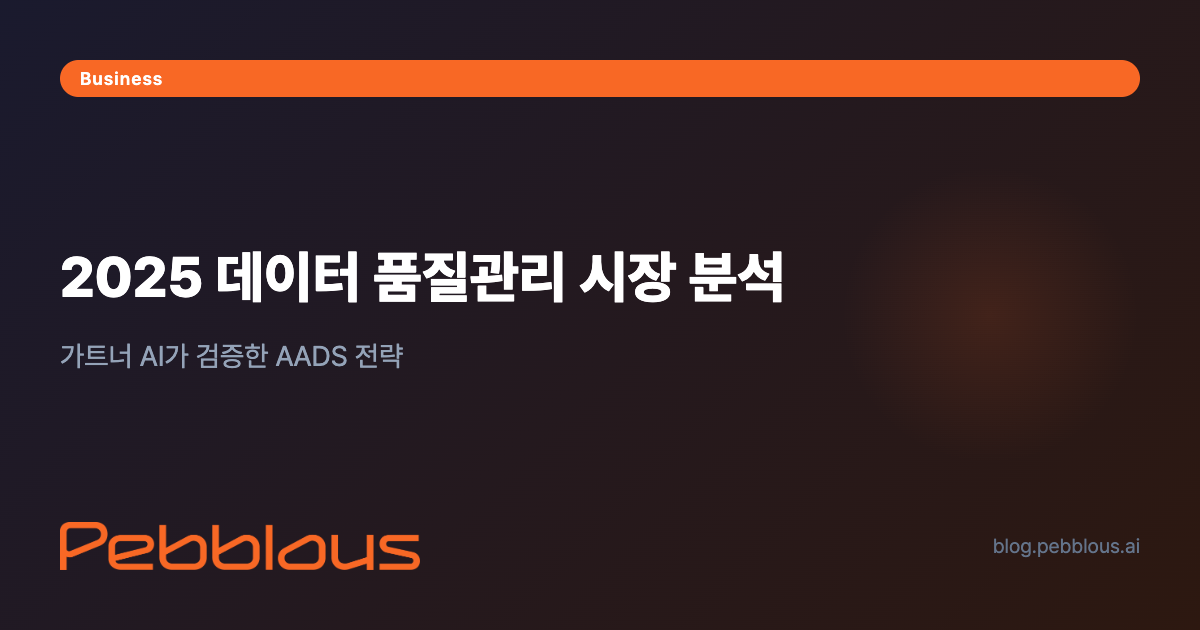
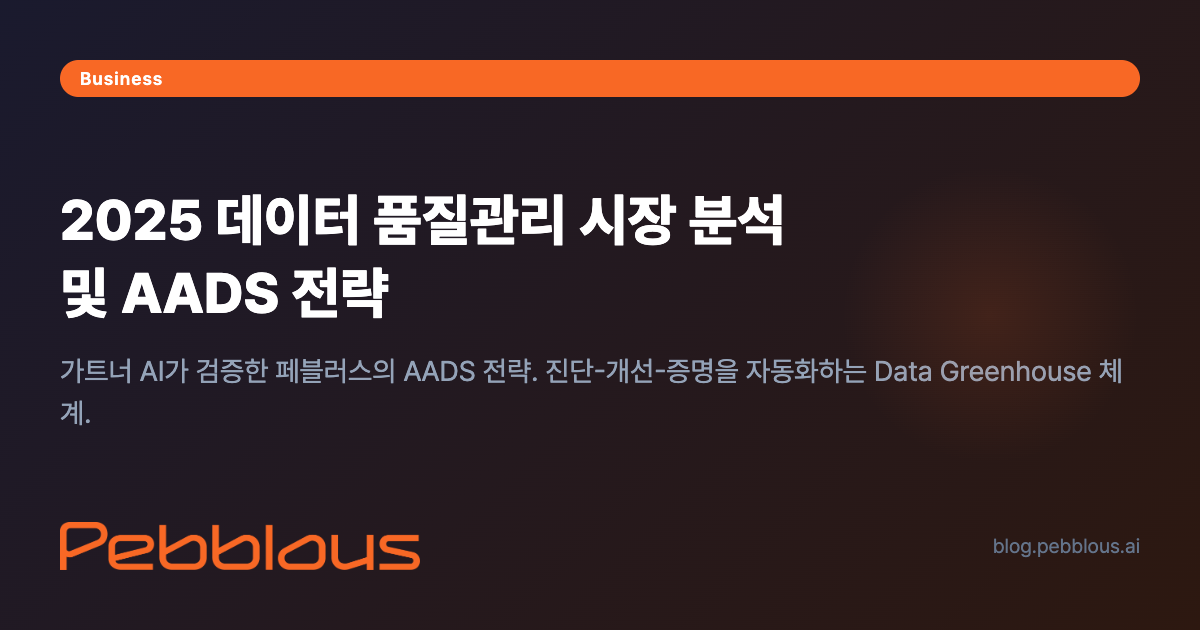
Add --from-html option to OG image generator
- Extract title from og:title or <title> tag
- Extract subtitle from og:description meta tag
- Auto-detect category from articles.json
- Skip generation if image exists (use --force to override)
- Clean up title: remove site name suffixes

🤖 Generated with [Claude Code](https://claude.com/claude-code)

Changed region(s): [[0.0308, 0.3016, 0.6783, 0.5127], [0.0308, 0.5429, 0.9558, 0.6333], [0.0308, 0.6333, 0.0925, 0.6635]]

diff --git a/tools/generate-og-image.js b/tools/generate-og-image.js
@@ -6,9 +6,12 @@
  *   node tools/generate-og-image.js "제목" "부제목" output.png
  *   node tools/generate-og-image.js "제목" output.png              # 부제목 없이
  *   node tools/generate-og-image.js --category business "제목" output.png
+ *   node tools/generate-og-image.js --from-html path/to/post.html  # HTML에서 자동 추출
  *
  * Options:
- *   --category  tech|business|story (default: tech)
+ *   --category   tech|business|story (default: tech)
+ *   --from-html  HTML 파일에서 제목/카테고리 자동 추출
+ *   --force      이미지가 이미 존재해도 재생성
  */
 
 const puppeteer = require('puppeteer');
@@ -267,9 +270,101 @@ async function generateOGImage(title, subtitle, outputPath, category, projectRoo
     }
 }
 
+// Extract info from HTML file
+function extractFromHTML(htmlPath, projectRoot) {
+    const htmlContent = fs.readFileSync(htmlPath, 'utf-8');
+
+    // Extract og:title or <title>
+    let title = '';
+    const ogTitleMatch = htmlContent.match(/<meta\s+property="og:title"\s+content="([^"]+)"/i);
+    if (ogTitleMatch) {
+        title = ogTitleMatch[1];
+    } else {
+        const titleMatch = htmlContent.match(/<title>([^<]+)<\/title>/i);
+        if (titleMatch) {
+            title = titleMatch[1];
+        }
+    }
+    // Clean up title: remove site name suffixes
+    title = title.replace(/\s*[|\-–—]\s*(Pebblous|Data Greenhouse|페블러스).*$/i, '').trim();
+
+    // Extract og:description for subtitle
+    let subtitle = '';
+    const ogDescMatch = htmlContent.match(/<meta\s+property="og:description"\s+content="([^"]+)"/i);
+    if (ogDescMatch) {
+        subtitle = ogDescMatch[1];
+        // Truncate if too long
+        if (subtitle.length > 80) {
+            subtitle = subtitle.substring(0, 77) + '...';
+        }
+    }
+
+    // Determine category from articles.json or path
+    let category = 'tech';
+    const articlesPath = path.join(projectRoot, 'articles.json');
+    if (fs.existsSync(articlesPath)) {
+        const data = JSON.parse(fs.readFileSync(articlesPath, 'utf-8'));
+        const relativePath = path.relative(projectRoot, htmlPath);
+
+        // Search in articles array
+        const found = data.articles?.find(a => a.path === relativePath);
+        if (found && found.category) {
+            category = found.category;
+        }
+    }
+
+    // Fallback: detect from path
+    if (category === 'tech') {
+        if (htmlPath.includes('/report/') || htmlPath.includes('market') || htmlPath.includes('business')) {
+            category = 'business';
+        } else if (htmlPath.includes('/story/') || htmlPath.includes('review')) {
+            category = 'story';
+        }
+    }
+
+    // Determine output path: same folder as HTML, in image/ subfolder
+    const htmlDir = path.dirname(htmlPath);
+    const htmlName = path.basename(htmlPath, '.html');
+    const outputPath = path.join(htmlDir, 'image', `${htmlName}.png`);
+
+    return { title, subtitle, category, output: outputPath };
+}
+
 // Main
 const args = process.argv.slice(2);
-if (args.length < 2) {
+
+// Check for --from-html mode
+const fromHtmlIndex = args.indexOf('--from-html');
+const forceIndex = args.indexOf('--force');
+const force = forceIndex !== -1;
+
+if (fromHtmlIndex !== -1 && args[fromHtmlIndex + 1]) {
+    // --from-html mode
+    const htmlPath = path.resolve(args[fromHtmlIndex + 1]);
+    const projectRoot = path.resolve(__dirname, '..');
+
+    if (!fs.existsSync(htmlPath)) {
+        console.error(`❌ HTML file not found: ${htmlPath}`);
+        process.exit(1);
+    }
+
+    const { title, subtitle, category, output } = extractFromHTML(htmlPath, projectRoot);
+
+    if (!title) {
+        console.error('❌ Could not extract title from HTML');
+        process.exit(1);
+    }
+
+    // Check if image already exists
+    if (fs.existsSync(output) && !force) {
+        console.log(`⏭  OG image already exists: ${output}`);
+        console.log('   Use --force to regenerate');
+        process.exit(0);
+    }
+
+    generateOGImage(title, subtitle, output, category, projectRoot).catch(console.error);
+
+} else if (args.length < 2) {
     console.log(`
 OG Image Generator for Pebblous Blog
 
@@ -277,19 +372,27 @@ Usage:
   node tools/generate-og-image.js "제목" output.png
   node tools/generate-og-image.js "제목" "부제목" output.png
   node tools/generate-og-image.js --category business "제목" output.png
+  node tools/generate-og-image.js --from-html path/to/post.html
+  node tools/generate-og-image.js --from-html path/to/post.html --force
 
 Categories:
   tech     - Blue theme (default)
   business - Orange theme
   story    - Teal theme
 
+Options:
+  --from-html  Extract title/category from HTML file automatically
+  --force      Regenerate even if image already exists
+
 Examples:
   node tools/generate-og-image.js "Data Greenhouse 전략" project/DataGreenhouse/image/og.png
   node tools/generate-og-image.js --category business "시장 분석" "가트너 AI 검증" output.png
+  node tools/generate-og-image.js --from-html project/DataGreenhouse/data-greenhouse-strategy.html
     `);
     process.exit(0);
+} else {
+    // Manual mode
+    const { category, title, subtitle, output } = parseArgs(args);
+    const projectRoot = path.resolve(__dirname, '..');
+    generateOGImage(title, subtitle, output, category, projectRoot).catch(console.error);
 }
-
-const { category, title, subtitle, output } = parseArgs(args);
-const projectRoot = path.resolve(__dirname, '..');
-generateOGImage(title, subtitle, output, category, projectRoot).catch(console.error);
